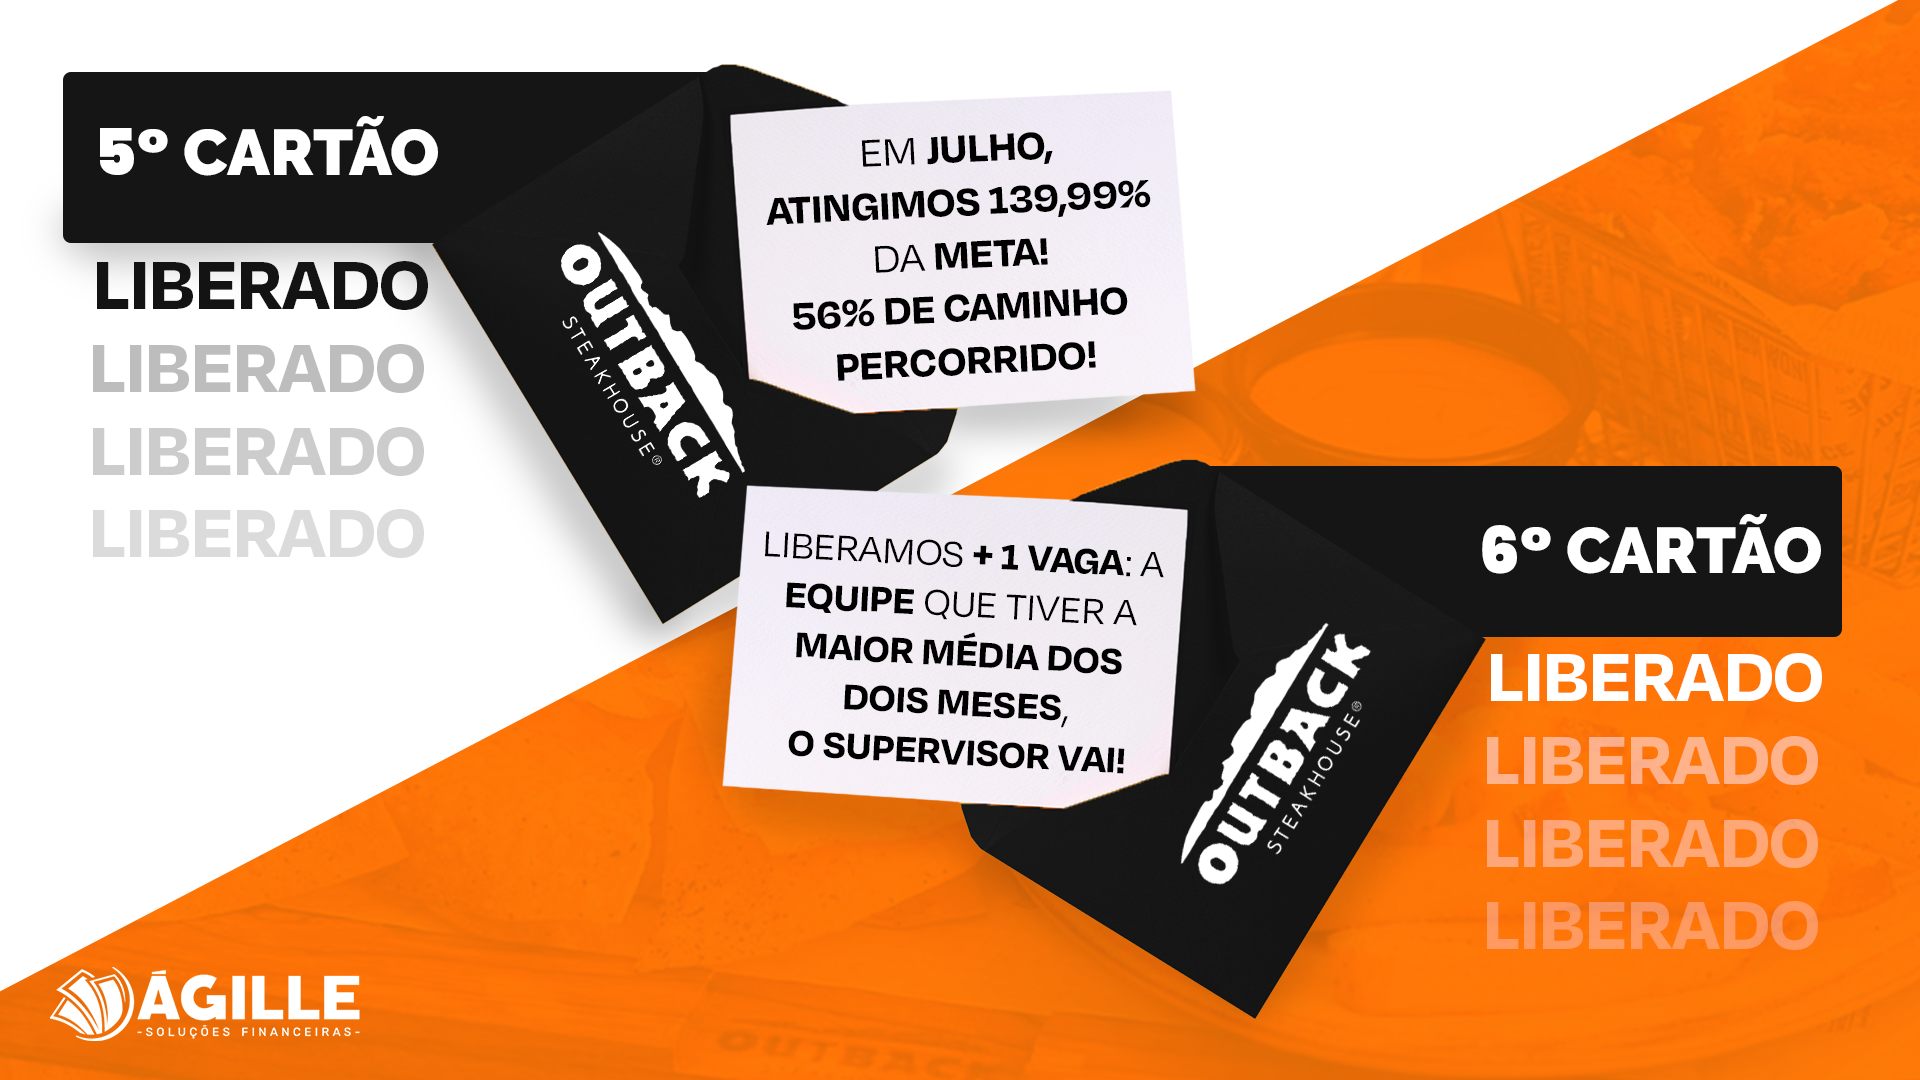
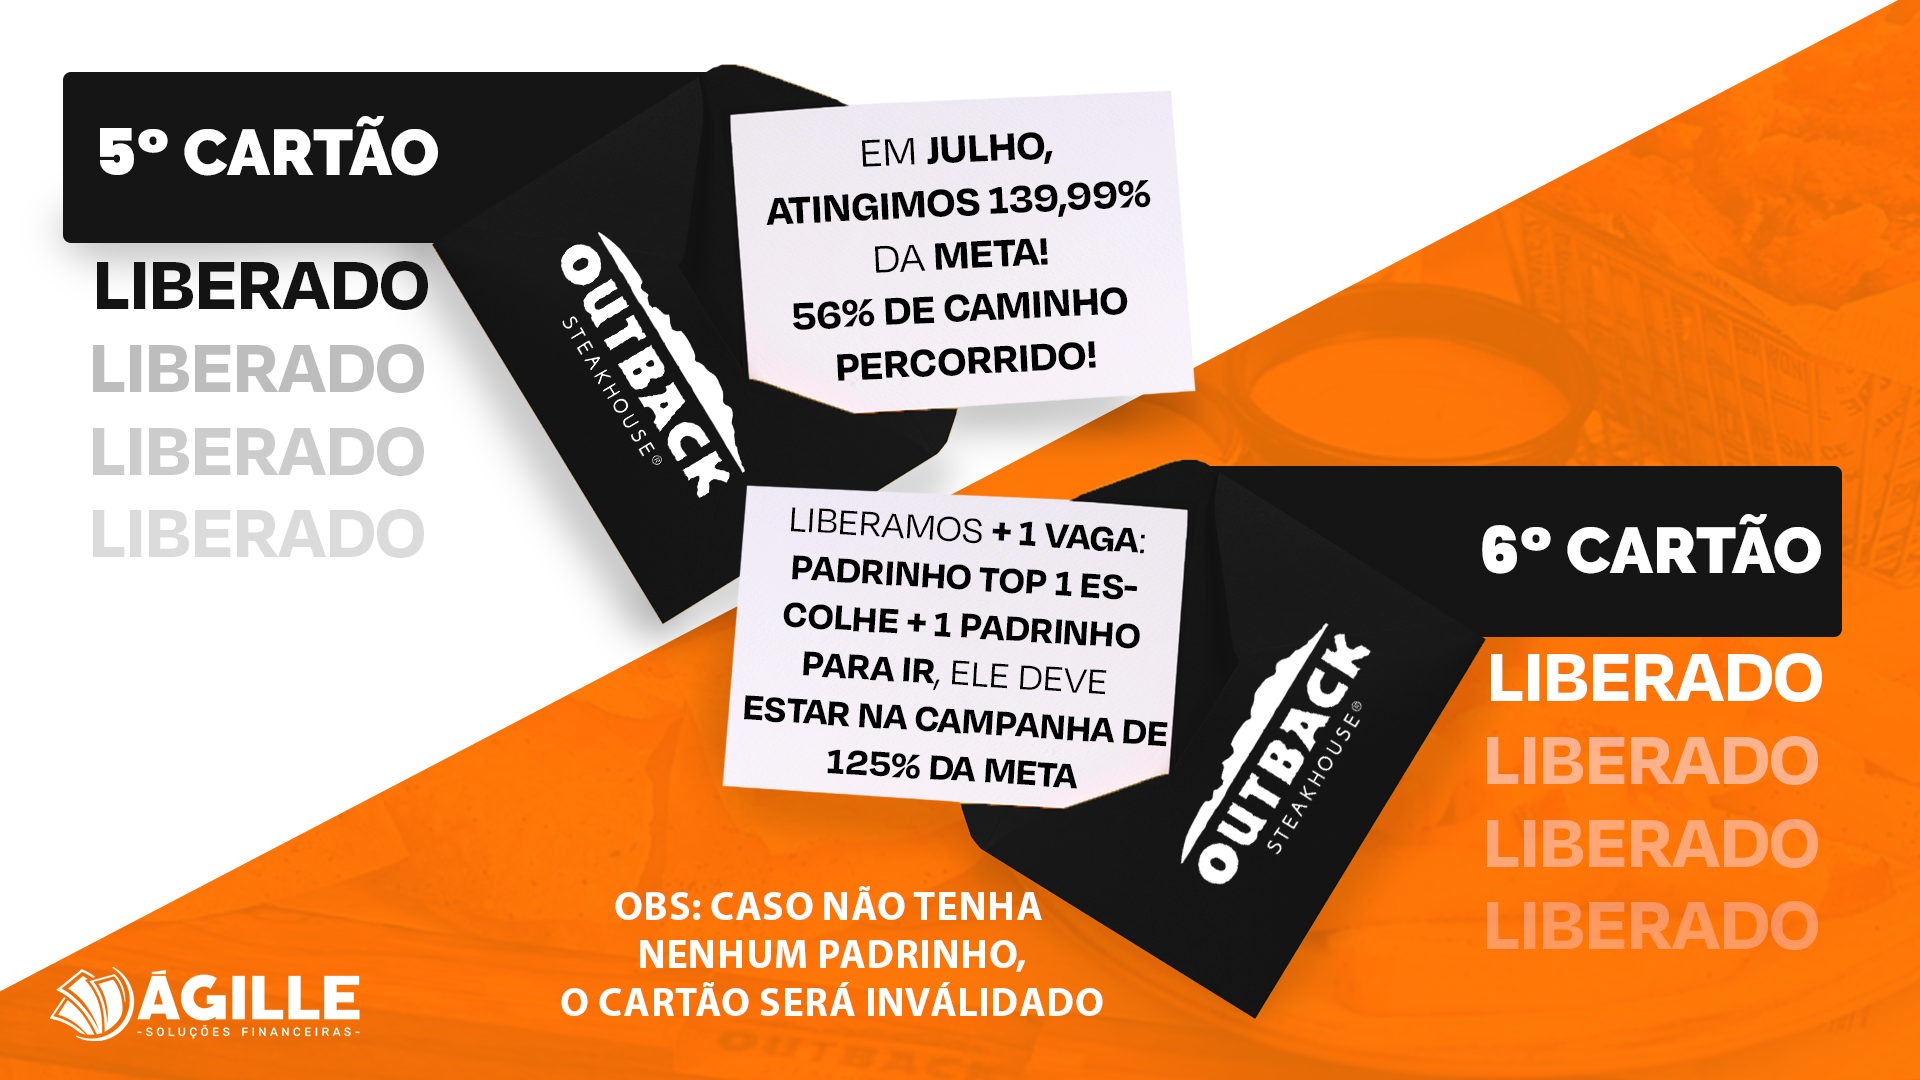
28082024¹

Changed region(s): [[0.375, 0.4583, 0.625, 0.7333], [0.2812, 0.825, 0.5938, 0.9472]]

diff --git a/index.html b/index.html
@@ -48,6 +48,12 @@
 				<img src="img/cartao-4.png" class="d-block w-100">
 			</div>
 			<div class="carousel-item" data-bs-interval="15000">
+				<img src="img/cartao-5.png" class="d-block w-100">
+			</div>
+			<div class="carousel-item" data-bs-interval="15000">
+				<img src="img/cartao-7.png" class="d-block w-100">
+			</div>
+			<div class="carousel-item" data-bs-interval="15000">
 				<img src="img/3.png" class="d-block w-100">
 			</div>
 			<div class="carousel-item" data-bs-interval="15000">
